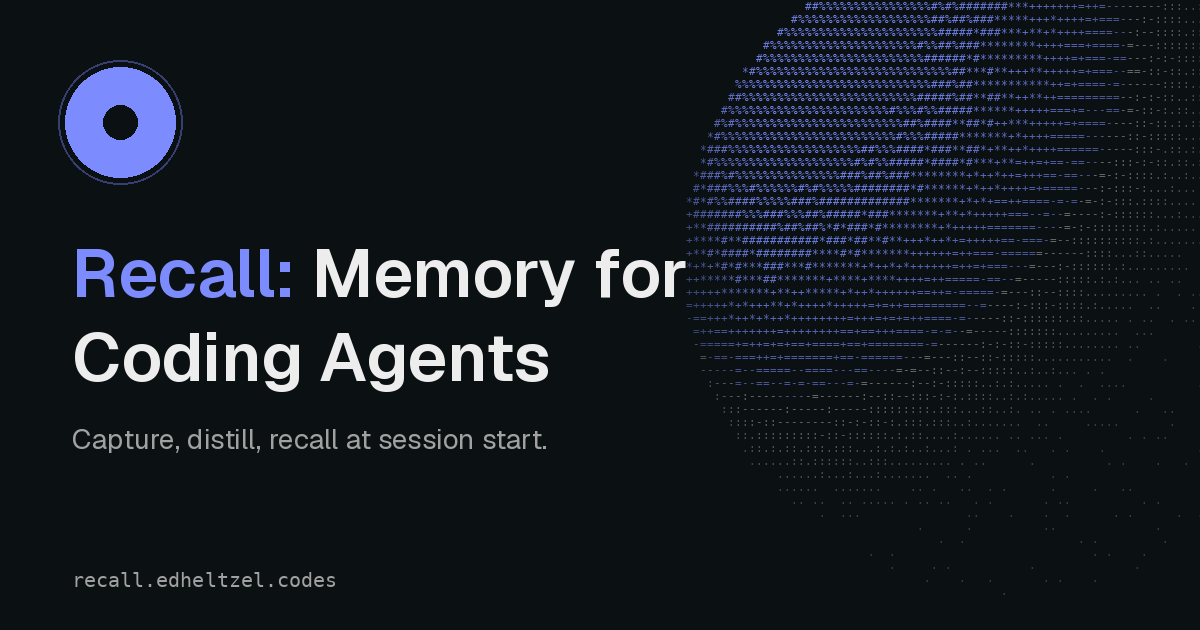
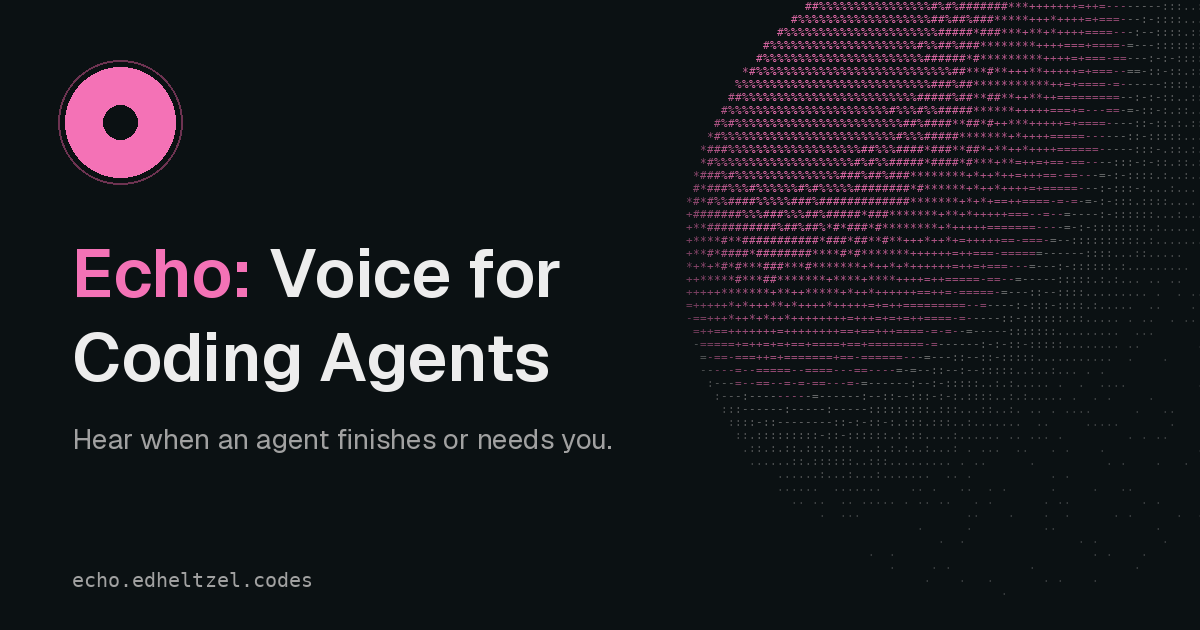
feat: Echo site scaffold from doskills/recall pattern (noindex, rose accent, Echo copy) (#1)

diff --git a/src/styles/tokens.css b/src/styles/tokens.css
@@ -1,9 +1,8 @@
 /*
-  TODO(recall-brief): accent is the DoSkills amber as a stand-in until the Recall brief lands.
-  One dark block, one light block. Near-black slate, amber accent.
-  Dark accent is #f5a524. Highlight is #ffd27a. Deep tint is #4a3310.
-  #9a6a14 is the mid line tint. It is under 4.5:1 on the paper surfaces,
-  so light text and links use #8a5a0c instead.
+  TODO(echo-brief): accent is an Echo stand-in rose #f472b6 until the Echo brief lands.
+  One dark block, one light block. Near-black slate, rose accent.
+  Dark accent is #f472b6. Highlight is #fbcfe8. Deep tint is #5c1438.
+  #c04a88 is the mid line tint. Light text and links use #a1245e.
   The light-nojs block repeats the light values so a page with JavaScript
   off still follows the system. scripts/contrast.mjs fails if the two drift.
 */
@@ -22,22 +21,22 @@
   --btn-bg: #ededed;
   --btn-fg: #000000;
   --btn-hv: #ffffff;
-  --acc: #f5a524;
-  --acc2: #ffd27a;
-  --mid: #9a6a14;
+  --acc: #f472b6;
+  --acc2: #fbcfe8;
+  --mid: #c04a88;
   --bg-rgb: 11, 17, 19;
   --s1-rgb: 17, 26, 29;
   --ink-rgb: 237, 237, 237;
-  --acc-rgb: 245, 165, 36;
-  --acc2-rgb: 255, 210, 122;
-  --hot-rgb: 255, 210, 122;
-  --b1: rgba(245, 210, 150, 0.06);
-  --b2: rgba(245, 210, 150, 0.1);
-  --b3: rgba(245, 210, 150, 0.16);
-  --b4: rgba(245, 210, 150, 0.26);
-  --hi: rgba(245, 210, 150, 0.04);
-  --stripe: rgba(245, 210, 150, 0.02);
-  --glow: 0 0 6px rgba(245, 165, 36, 0.5);
+  --acc-rgb: 244, 114, 182;
+  --acc2-rgb: 251, 207, 232;
+  --hot-rgb: 251, 207, 232;
+  --b1: rgba(244, 180, 214, 0.06);
+  --b2: rgba(244, 180, 214, 0.1);
+  --b3: rgba(244, 180, 214, 0.16);
+  --b4: rgba(244, 180, 214, 0.26);
+  --hi: rgba(244, 180, 214, 0.04);
+  --stripe: rgba(244, 180, 214, 0.02);
+  --glow: 0 0 6px rgba(244, 114, 182, 0.5);
   --shade-edge: 0.5;
 }
 
@@ -55,15 +54,15 @@
   --btn-bg: #111111;
   --btn-fg: #f6f5f1;
   --btn-hv: #000000;
-  --acc: #8a5a0c;
-  --acc2: #4a3310;
-  --mid: #9a6a14;
+  --acc: #a1245e;
+  --acc2: #5c1438;
+  --mid: #c04a88;
   --bg-rgb: 246, 245, 241;
   --s1-rgb: 252, 251, 248;
   --ink-rgb: 17, 17, 17;
-  --acc-rgb: 138, 90, 12;
-  --acc2-rgb: 74, 51, 16;
-  --hot-rgb: 255, 210, 122;
+  --acc-rgb: 161, 36, 94;
+  --acc2-rgb: 92, 20, 56;
+  --hot-rgb: 251, 207, 232;
   --b1: rgba(0, 0, 0, 0.07);
   --b2: rgba(0, 0, 0, 0.11);
   --b3: rgba(0, 0, 0, 0.17);
@@ -90,15 +89,15 @@
     --btn-bg: #111111;
     --btn-fg: #f6f5f1;
     --btn-hv: #000000;
-    --acc: #8a5a0c;
-    --acc2: #4a3310;
-    --mid: #9a6a14;
+    --acc: #a1245e;
+    --acc2: #5c1438;
+    --mid: #c04a88;
     --bg-rgb: 246, 245, 241;
     --s1-rgb: 252, 251, 248;
     --ink-rgb: 17, 17, 17;
-    --acc-rgb: 138, 90, 12;
-    --acc2-rgb: 74, 51, 16;
-    --hot-rgb: 255, 210, 122;
+    --acc-rgb: 161, 36, 94;
+    --acc2-rgb: 92, 20, 56;
+    --hot-rgb: 251, 207, 232;
     --b1: rgba(0, 0, 0, 0.07);
     --b2: rgba(0, 0, 0, 0.11);
     --b3: rgba(0, 0, 0, 0.17);

diff --git a/src/site.js b/src/site.js
@@ -1,14 +1,17 @@
-export const siteName = 'Recall';
+export const siteName = 'Echo';
 
-/** Placeholder until the Recall brief lands. */
+/** TODO(echo-brief): placeholder until the Echo brief lands. */
 export const siteDescription =
-  'Persistent memory for coding agents. Recall captures each session, distills what matters into one local SQLite file, and injects it when the next session starts.';
+  'Hear your agents. Echo speaks when a coding agent finishes its turn or is waiting on you. One local daemon on your Mac.';
+
+/** Canonical site URL (also SITE_URL default in astro.config.mjs). */
+export const siteUrl = 'https://echo.edheltzel.codes';
 
 /** Landing install command (captain lock). */
 export const installCommand = 'gap sync';
 
 /** Product repo. */
-export const repoHref = 'https://github.com/edheltzel/Recall';
+export const repoHref = 'https://github.com/edheltzel/Echo';
 
 /** Docs and install guide are coming-soon placeholders. Keep the links visible. */
 export const docsHref = '/docs/';
@@ -16,12 +19,13 @@ export const installHref = '/docs/install/';
 
 /**
  * Social preview image, public/og.png (1200x630), generated by scripts/og.py in the
- * GAP/DoSkills family style with the Recall accent #7c8cff (violet-blue).
- * TODO(recall-brief): regenerate if the brief picks a different accent.
+ * GAP/DoSkills family style with the Echo stand-in accent #f472b6 (rose).
+ * TODO(echo-brief): accent is a stand-in; swap tokens.css, favicon.svg, and regenerate og.png
+ * when the Echo brief picks the accent.
  */
 export const ogImage = {
   path: '/og.png',
   width: 1200,
   height: 630,
-  alt: 'Recall: Memory for Coding Agents. Capture, distill, recall at session start.',
+  alt: 'Echo: Voice for Coding Agents. Hear when an agent finishes or needs you.',
 };

diff --git a/src/styles/landing.css b/src/styles/landing.css
@@ -1,10 +1,10 @@
-/* Landing, frozen amber concept B (doskills-mockups v6/concept-b/src-amber).
+/* Landing, concept B (doskills-mockups v6/concept-b layout; Echo stand-in rose accent).
    Tokens come from tokens.css; the hero field is drawn by src/scripts/hero.ts. */
 :root{
   --pad: max(24px, calc((100vw - 1136px) / 2));
   --out: cubic-bezier(0.16, 1, 0.3, 1);
 }
-/* base.css paints every link amber (visited included, via the plain `a` rule).
+/* base.css paints every link accent (visited included, via the plain `a` rule).
    Landing links set their own colour; this only undoes the base rule at
    specificity (0,0,1), so any class rule below still wins, visited or not. */
 :where(.cb) a:where(:not(.btn, .skip)){ color: inherit; }

diff --git a/src/scripts/theme-toggle.ts b/src/scripts/theme-toggle.ts
@@ -1,7 +1,7 @@
 export {};
 
 const root = document.documentElement;
-const storageKey = 'recall-theme';
+const storageKey = 'echo-theme';
 
 function aria(pref: string) {
   const follows = pref === 'auto' ? ' (follows system)' : '';

diff --git a/src/styles/docs.css b/src/styles/docs.css
@@ -86,7 +86,7 @@ starlight-toc a[aria-current='true'] {
 }
 
 footer.sl-flex::after {
-  content: 'Recall';
+  content: 'Echo';
   font-family: var(--mono);
   font-size: 9.5px;
   letter-spacing: 0.14em;

diff --git a/scripts/og.py b/scripts/og.py
@@ -1,9 +1,9 @@
 # Generates public/og.png (1200x630) in the GAP/DoSkills family style.
-# Recall accent #7c8cff (violet-blue). TODO(recall-brief): override if the brief picks another.
+# Echo stand-in accent #f472b6 (rose). TODO(echo-brief): override when the brief picks the accent.
 import math, random
 from PIL import Image, ImageDraw, ImageFont
 W, H = 1200, 630
-BG = (11, 17, 19); ACC = (124, 140, 255); TEXT = (237, 237, 237); T2 = (161, 161, 161); T3 = (140, 140, 140)
+BG = (11, 17, 19); ACC = (244, 114, 182); TEXT = (237, 237, 237); T2 = (161, 161, 161); T3 = (140, 140, 140)
 G = '/usr/share/fonts/truetype/sand-box/google/Geist/Geist-VariableFont_wght.ttf'
 M = '/usr/share/fonts/truetype/dejavu/DejaVuSansMono.ttf'
 def geist(size, w=600):
@@ -39,10 +39,10 @@ d.ellipse([mx-55, my-55, mx+55, my+55], fill=ACC)
 d.ellipse([mx-17, my-17, mx+17, my+17], fill=BG)
 # Copy
 ft = geist(68, 600)
-d.text((72, 228), 'Recall:', font=ft, fill=ACC)
-w = d.textlength('Recall: ', font=ft)
-d.text((72 + w, 228), 'Memory for', font=ft, fill=TEXT)
+d.text((72, 228), 'Echo:', font=ft, fill=ACC)
+w = d.textlength('Echo: ', font=ft)
+d.text((72 + w, 228), 'Voice for', font=ft, fill=TEXT)
 d.text((72, 312), 'Coding Agents', font=ft, fill=TEXT)
-d.text((72, 420), 'Capture, distill, recall at session start.', font=geist(28, 400), fill=T2)
-d.text((72, 568), 'recall.edheltzel.codes', font=ImageFont.truetype(M, 20), fill=T2)
+d.text((72, 420), 'Hear when an agent finishes or needs you.', font=geist(28, 400), fill=T2)
+d.text((72, 568), 'echo.edheltzel.codes', font=ImageFont.truetype(M, 20), fill=T2)
 img.save('public/og.png', optimize=True)

diff --git a/README.md b/README.md
@@ -1,10 +1,10 @@
-# Recall site
+# Echo site
 
-Landing and docs site for [Recall](https://github.com/edheltzel/Recall), planned at https://recall.edheltzel.codes. Built from the doskills-site pattern at `a5fcaf5`.
+Landing and docs site for [Echo](https://github.com/edheltzel/Echo), planned at https://echo.edheltzel.codes. Built from the doskills-site pattern at `a5fcaf5`.
 
 **noindex stays on everywhere** (robots meta on the landing and docs pages, plus `public/robots.txt`) until a separate captain go-live yes.
 
-TODO before go-live: Recall accent color, final copy, recolor `public/og.png`, write the docs and install guide.
+TODO before go-live: Echo accent color, final copy, recolor `public/og.png`, write the docs and install guide.
 
 ## Run locally
 

diff --git a/src/content/docs/docs/install.md b/src/content/docs/docs/install.md
@@ -1,6 +1,6 @@
 ---
 title: Install guide
-description: The Recall install guide is coming soon.
+description: The Echo install guide is coming soon.
 ---
 
 Coming soon. The install guide has not been written yet. The landing page install command is `gap sync`.

diff --git a/src/content/docs/docs/index.md b/src/content/docs/docs/index.md
@@ -1,6 +1,6 @@
 ---
 title: Overview
-description: Recall docs are coming soon.
+description: Echo docs are coming soon.
 ---
 
-Coming soon. The Recall docs have not been written yet.
+Coming soon. The Echo docs have not been written yet.
